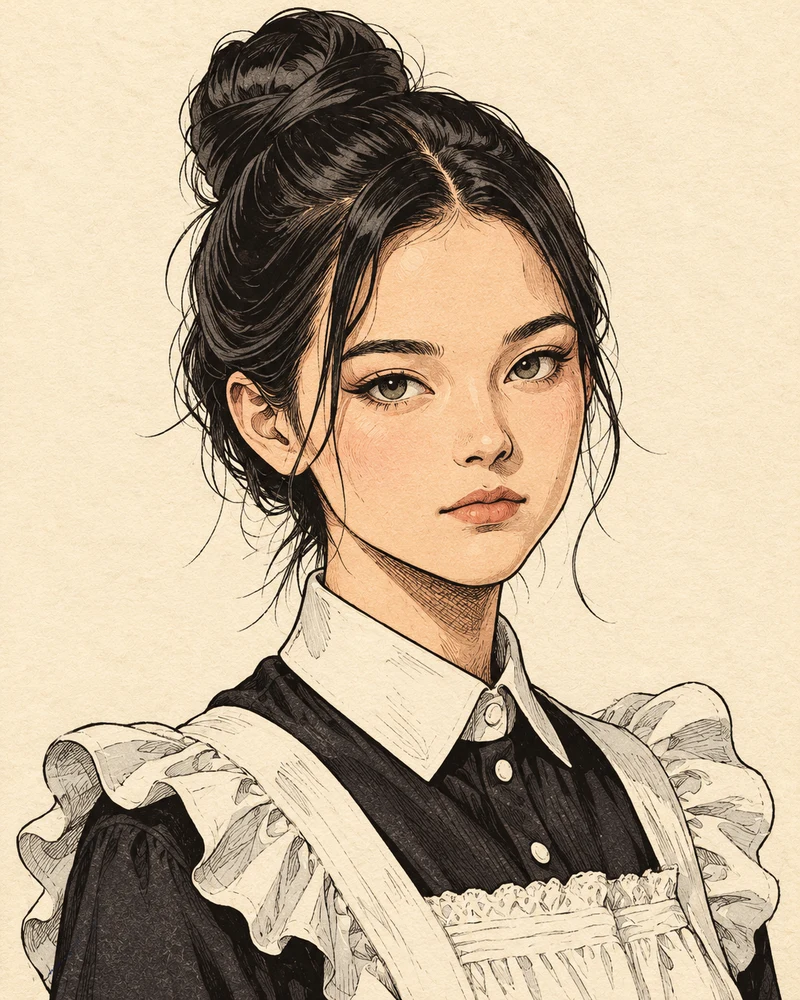
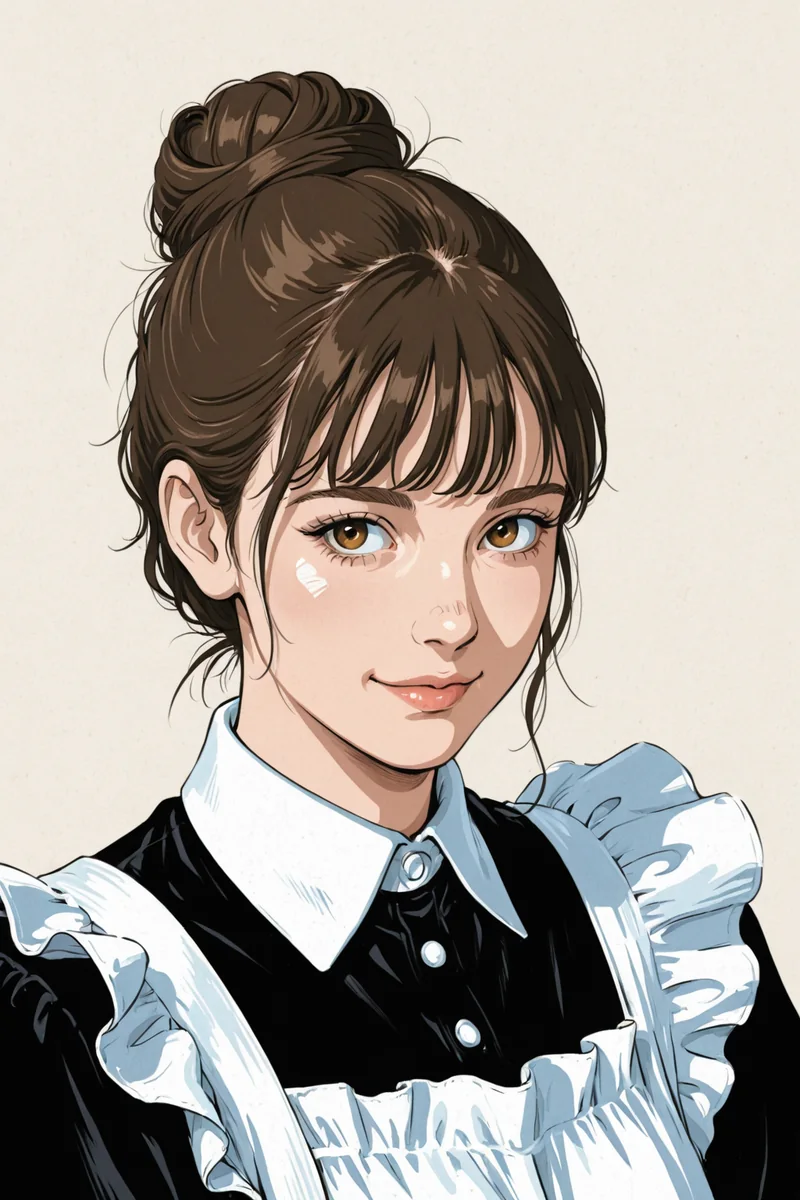
Portraits des chapitres 2 et 3 (13 personnages, dont André Vivalto)
Claude-Session: https://claude.ai/code/session_01D4WuGw4gqmN6vsYiWcnueS

diff --git a/img/images.js b/img/images.js
@@ -34,6 +34,13 @@ window.KIOUKAN_IMAGES = {
 
   // ——— Chapitre 2 · Le Grand Hôtel des Mouettes ———
   // 'plan:palace': 'img/plan-palace.png',
+  'paul-ochon': 'img/paul-ochon-carte.webp',
+  'andre-vivalto': 'img/andre-vivalto-carte.webp',
+  'lise-defait': 'img/lise-defait-carte.webp',
+  'max-valise': 'img/max-valise-carte.webp',
+  'jacques-teil': 'img/jacques-teil-carte.webp',
+  'ginette-pepite': 'img/ginette-pepite-carte.webp',
+  'chef-al-dente': 'img/chef-al-dente-carte.webp',
   // 'max-valise:gene': 'img/max-valise-gene.png',
   // 'paul-ochon:choc': 'img/paul-ochon-choc.png',
   // 'ginette-pepite:sourire': 'img/ginette-pepite-sourire.png',
@@ -49,6 +56,12 @@ window.KIOUKAN_IMAGES = {
 
   // ——— Chapitre 3 · Le Manoir des Oliviers ———
   // 'plan:manoir': 'img/plan-manoir.png',
+  'maitre-gerard-menvussa': 'img/maitre-gerard-menvussa-carte.webp',
+  'lucie-fer': 'img/lucie-fer-carte.webp',
+  'hippolyte-plateau': 'img/hippolyte-plateau-carte.webp',
+  'julie-enne': 'img/julie-enne-carte.webp',
+  'basile-bouture': 'img/basile-bouture-carte.webp',
+  'dr-mehdi-cament': 'img/dr-mehdi-cament-carte.webp',
   // 'lucie-fer:sourire': 'img/lucie-fer-sourire.png',
   // 'julie-enne:choc': 'img/julie-enne-choc.png',
   // 'basile-bouture:gene': 'img/basile-bouture-gene.png',
